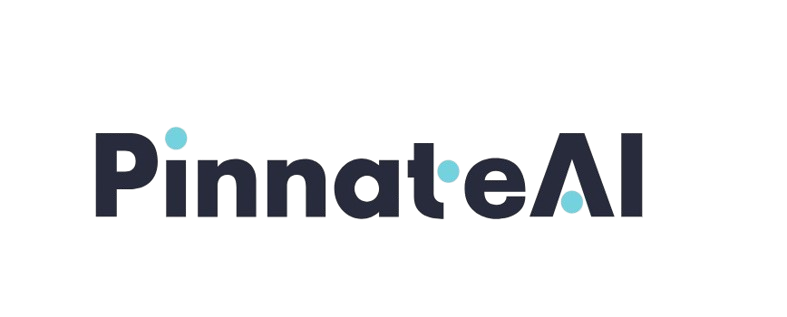
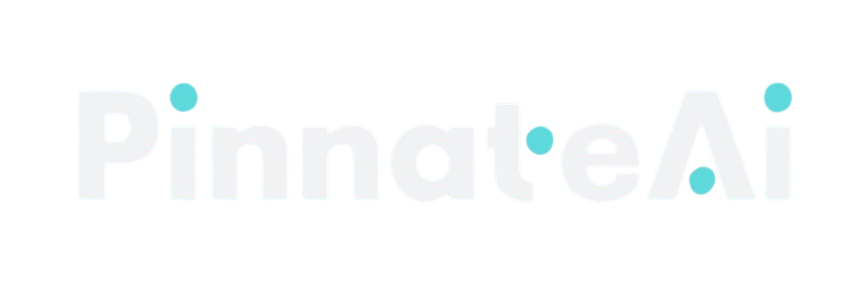
PinnateAI

Changed region(s): [[0.122, 0.2784, 0.8539, 0.7113], [0.8844, 0.2784, 0.9454, 0.4021]]

diff --git a/styles.css b/styles.css
@@ -22,13 +22,16 @@ header {
     justify-content: space-between;
     align-items: center;
     padding: 1px 10%;
-    background: #ffffff;
-    color: black;
+    background: #25907e;
+    color: rgb(255, 254, 254);
     position: fixed;
     width: 100%;
     top: 0;
     z-index: 1000;
     box-shadow: 0 4px 10px rgba(0, 0, 0, 0.1);
+}
+header img{
+    width: 20%;
 }
 
 .logo {
@@ -49,7 +52,7 @@ header {
 
 .nav-links a {
     text-decoration: none;
-    color: black;
+    color: rgb(255, 253, 253);
     font-weight: 500;
     transition: 0.3s;
 }
@@ -62,8 +65,8 @@ header {
     text-align: center;
     padding: 160px 10%;
     background: rgb(0,36,20);
-    background: linear-gradient(90deg, rgba(0,36,20,1) 0%, rgba(9,121,90,1) 43%, rgba(0,212,255,1) 100%);
-    color: white;
+    background: linear-gradient(90deg, rgba(0,36,20,1) 0%, rgba(0,255,184,1) 0%, rgba(158,217,230,1) 100%);
+    color: rgb(0, 0, 0);
     margin-top: 50px;
     margin-bottom: -50px;
 }
@@ -86,7 +89,7 @@ header {
     font-weight: 600;
     text-decoration: none;
     color: #fff;
-    background: #f31717;
+    background: #178cf3;
     border: none;
     border-radius: 25px;
     cursor: pointer;
@@ -134,8 +137,8 @@ header {
     text-align: center;
     padding: 100px 10%;
     background: rgb(0,36,20);
-    background: linear-gradient(90deg, rgba(0,36,20,1) 0%, rgba(9,121,90,1) 43%, rgba(0,212,255,1) 100%);
-    color: white;
+    background: linear-gradient(90deg, rgba(0,36,20,1) 0%, rgba(0,255,184,1) 0%, rgba(158,217,230,1) 100%);
+    color: rgb(0, 0, 0);
 }
 
 #about h2 {
@@ -152,7 +155,7 @@ header {
 
 .about-box div {
     padding: 20px;
-    background: rgba(255, 255, 255, 0.1);
+    background: rgba(0, 0, 0, 0.1);
     border-radius: 8px;
     transition: 0.3s;
 }
@@ -279,8 +282,8 @@ header {
 
 footer {
     background: rgb(0,36,20);
-    background: linear-gradient(90deg, rgba(0,36,20,1) 0%, rgba(9,121,90,1) 43%, rgba(0,212,255,1) 100%);
-    color: white;
+    background: linear-gradient(90deg, rgba(0,36,20,1) 0%, rgba(0,255,184,1) 0%, rgba(158,217,230,1) 100%);
+    color: rgb(0, 0, 0);
     text-align: center;
     padding: 20px 0;
     margin-top: 50px;
@@ -434,6 +437,9 @@ footer {
         align-items: center;
         padding: 15px 5%;
     }
+    header img {
+        width: 30%;
+    }
     
     .nav-links {
         flex-direction: column;
@@ -485,4 +491,85 @@ footer {
     .nav-links {
         display: none !important;
     }
+    
+#home h1 {
+    font-size: 25px;
+    font-weight: 600;
+    margin-bottom: 15px;
+}
+
+#home p {
+    font-size: 13px;
+    margin-bottom: 20px;
+}
+
+#home button {
+    padding: 12px 20px;
+    margin: 10px;
+    font-size: 16px;
+    font-weight: 300;
+    text-decoration: none;
+    color: #fff;
+    background: #178cf3;
+    border: none;
+    border-radius: 25px;
+    cursor: pointer;
+    transition: 0.3s;
+}
+
+#home button:hover {
+    background: #7dd1e4;
+}
+.quick-links {
+    max-width: 20%;
+   text-align: 56%;
+}
+.quick-links h3,
+.social h3 {
+    font-size: 15px;
+    color: #333;
+    font-weight: bold;
+}
+.quick-links h3 {
+    margin-left: 150px;
+}
+.quick-links ul {
+    text-align: center;
+    margin-left: 150px;
+}
+.quick-links ul li {
+    margin: 8px 0;
+}
+.quick-links ul li a {
+    text-decoration: none;
+    color: #007bff;
+    font-size: 16px;
+}
+.quick-links ul li a:hover {
+    text-decoration: underline;
+}
+
+.social {
+    max-width: 20%;
+    display: inline;
+}
+
+.social h3{
+    margin-left: 150px;
+}
+.social-icons img {
+    width: 32px;
+    height: 32px;
+    transition: transform 0.3s;
+    margin-left: 150px;
+}
+.social-icons img:hover {
+    transform: scale(1.1);
+}
+footer {
+    margin-top: -50px;
+}
+.about img{
+  background-image: url('Pinnate.png');
+}
 }

diff --git a/index.html b/index.html
@@ -9,7 +9,7 @@
 <body>
    
     <header>
-        <img  style="width: 20%;margin-left: -100px;" src="Pinnate.png" alt="PinnateAI">
+        <img src="Pinnate.png" alt="PinnateAI">
         <ul class="nav-links">
             <li><a href="#home">Home</a></li>
             <li><a href="#services">Services</a></li>
@@ -81,7 +81,7 @@
     <section id="before-footer">
         <div class="footer-content">
             <div class="about">
-                
+                <img  style="width: 50%; margin-left: -20px;" src="PinnateAI1.png" alt="PinnateAI">
                 <p>Building innovative solutions for tomorrow's challenges. We help businesses transform their digital presence with cutting-edge technology.</p>
             </div>
             <div class="quick-links">
@@ -104,7 +104,7 @@
     </section>
     
     <footer>
-        <img  style="width: 10%;margin-top: -20px;margin-bottom: -20px;" src="Pinnate.png" alt="PinnateAI">
+   
         <p>&copy; 2025 PinnateAI. All Rights Reserved.</p>
     </footer>
     
